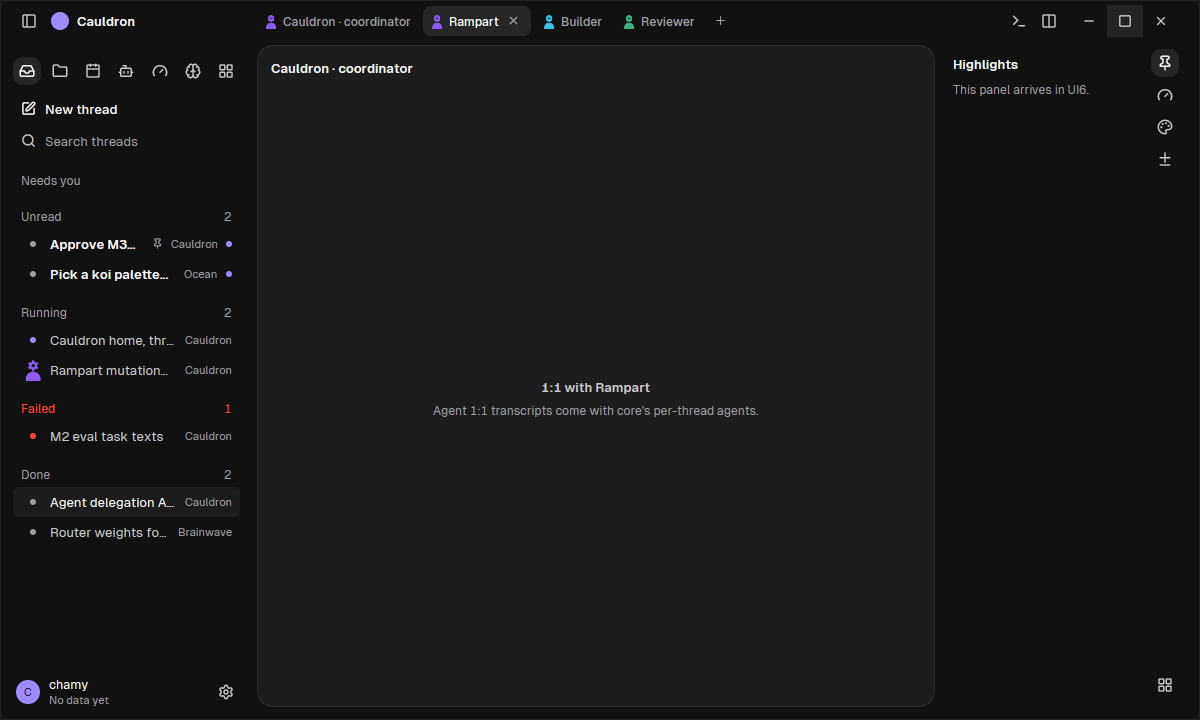
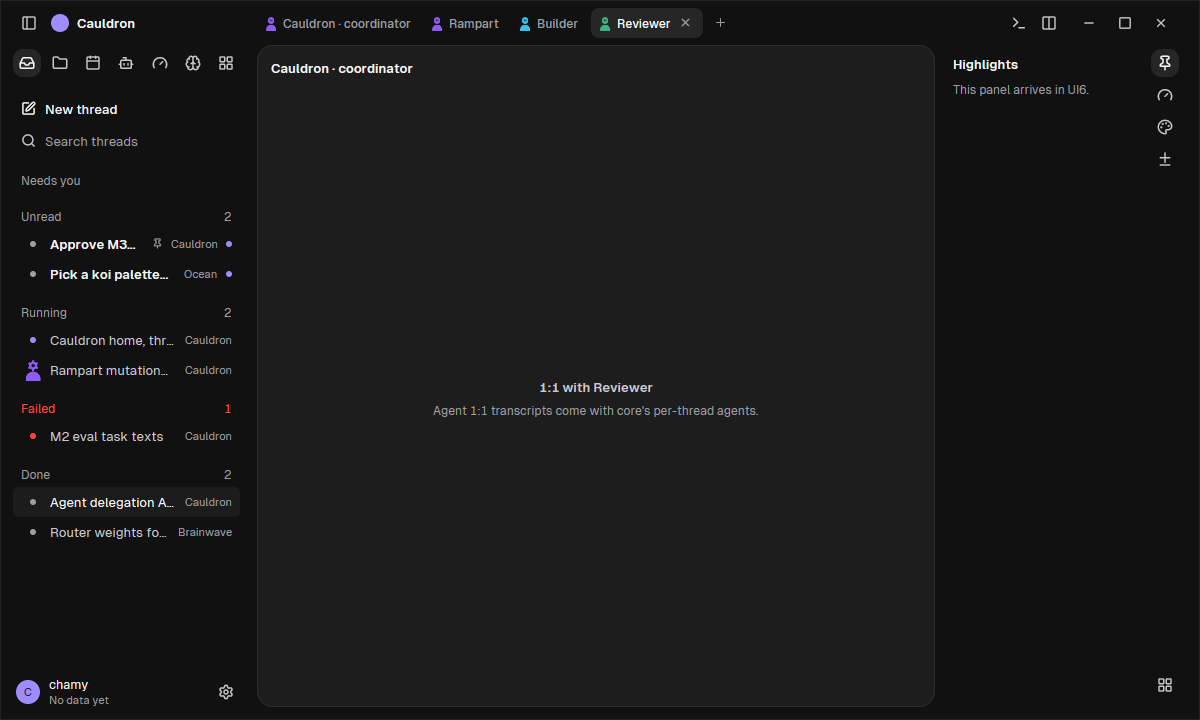
NL2e 44px bar: shots dark and light, board strip, README, red/green runs [skip ci]

diff --git a/docs/screenshots/new-look/README.md b/docs/screenshots/new-look/README.md
@@ -81,8 +81,8 @@ Charles retired the folder tabs (12 Nov); the coordinator's answer on placement 
 
 | | Board `.ftab` | App, measured at 1200x720 | Why |
 |---|---|---|---|
-| Bar | 44 | 40 | top bar A, merged in NL2b |
-| Tab | y 7, h 30, centred | y 6 to 36, h 30, centred | |
+| Bar | 44 | 44 (was 40 from top bar A; moved to the board's 44 on 13 Nov so the bar and the card head line up) | |
+| Tab | y 7, h 30, centred | y 8 to 38, h 30, centred (the window's 1px border adds 1 to every y) | |
 | Row x | card + 6 (254) | card's left edge (257) | rule 8; clamped past the logo and name when the sidebar is closed (the board has no such frame) |
 | Radius | 7 | 8 (`radius::INNER`) | there is no 7 |
 | Text | 12.5px 400 | 12px / 16px, 500 | label style |
@@ -91,10 +91,11 @@ Charles retired the folder tabs (12 Nov); the coordinator's answer on placement 
 | Figure | 15x18 on every tab | 14px tall, only on an agentic thread's tabs | Charles, 12 Nov |
 | Close | fg-4 | fg-3, on hover for closed tabs | fg-4 fails AA |
 | + | 28 | 28 | |
-| Card | y 44 under the bar | y 45 (bar 40 + gap 4 + border 1) | |
+| Card | y 44, right under the bar | y 45, right under the bar (no gap) | |
+| Sidebar first row (apps) | y 48 | y 49 | the apps row then 16 to New thread, the board's 15 on the 4px scale |
 | Card head | 44, title at card + 14, "repo /" fg-3 400 | the same; worktree and branch not drawn | core has no worktree or branch for a thread |
 
 - Agent tabs size to their names within an equal share of the row (72 to 200); past that the row scrolls with arrows, as before.
 - Empty states (Charles, 12 Nov): a "Needs you" head with no rows and no count above the groups (hidden while searching), and "No data yet" under the name in the user row. Neither invents a number.
 - The thread view's own title row and chips are gone; the card head carries the title.
-- Runs: `docs/cauldron/NL2-tabs-red.txt` (tabs still under the bar, no `selected` state, no card head, no empty states), `NL2-tabs-green.txt`. The 13 Nov sizes (14px figure, row at the card's edge) changed the tests and the code together; there is no separate red run for them.
+- Runs: `docs/cauldron/NL2-bar44-red.txt` / `NL2-bar44-green.txt` (the 44px bar, panes under it); `docs/cauldron/NL2-tabs-red.txt` (tabs still under the bar, no `selected` state, no card head, no empty states), `NL2-tabs-green.txt`. The 13 Nov sizes (14px figure, row at the card's edge) changed the tests and the code together; there is no separate red run for them.
